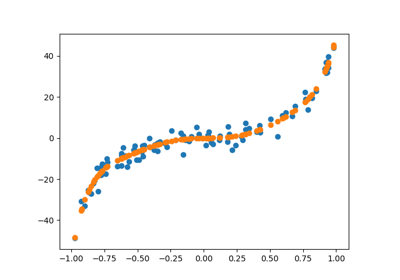
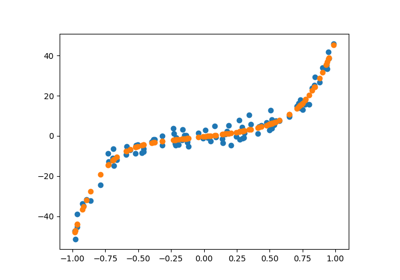
Pushing the docs for revision for branch: master, commit db22fea084fb2cd272b176cc1fdb35c305224d92

diff --git a/_modules/pipegraph/base.html b/_modules/pipegraph/base.html
@@ -873,7 +873,7 @@
 
 
         <span class="k">if</span> <span class="s1">&#39;kwargs&#39;</span> <span class="ow">in</span> <span class="n">variable_list</span><span class="p">:</span>
-            <span class="n">input_data</span> <span class="o">=</span> <span class="p">{</span><span class="n">inner_variable</span><span class="p">:</span> <span class="n">graph_data</span><span class="p">[</span><span class="n">node_and_outer_variable_tuple</span><span class="p">]</span>
+            <span class="n">input_data</span> <span class="o">=</span> <span class="p">{</span><span class="n">inner_variable</span><span class="p">:</span> <span class="n">graph_data</span><span class="o">.</span><span class="n">get</span><span class="p">(</span><span class="n">node_and_outer_variable_tuple</span><span class="p">,</span> <span class="kc">None</span><span class="p">)</span>
                           <span class="k">for</span> <span class="n">inner_variable</span><span class="p">,</span> <span class="n">node_and_outer_variable_tuple</span> <span class="ow">in</span> <span class="n">connection_tuples</span><span class="o">.</span><span class="n">items</span><span class="p">()}</span>
         <span class="k">else</span><span class="p">:</span>
             <span class="n">input_data</span> <span class="o">=</span> <span class="p">{</span><span class="n">inner_variable</span><span class="p">:</span> <span class="n">graph_data</span><span class="p">[</span><span class="n">node_and_outer_variable_tuple</span><span class="p">]</span>
@@ -904,8 +904,8 @@
             <span class="k">else</span><span class="p">:</span>
                 <span class="n">connection_tuples</span><span class="o">.</span><span class="n">update</span><span class="p">({</span><span class="n">key</span><span class="p">:</span> <span class="p">(</span><span class="s1">&#39;_External&#39;</span><span class="p">,</span> <span class="n">value</span><span class="p">)})</span>
 
-        <span class="k">if</span> <span class="n">variable_list</span> <span class="o">==</span> <span class="p">[</span><span class="s1">&#39;kwargs&#39;</span><span class="p">]:</span>
-            <span class="n">input_data</span> <span class="o">=</span> <span class="p">{</span><span class="n">inner_variable</span><span class="p">:</span> <span class="n">graph_data</span><span class="p">[</span><span class="n">node_and_outer_variable_tuple</span><span class="p">]</span>
+        <span class="k">if</span> <span class="s1">&#39;kwargs&#39;</span> <span class="ow">in</span> <span class="n">variable_list</span><span class="p">:</span>
+            <span class="n">input_data</span> <span class="o">=</span> <span class="p">{</span><span class="n">inner_variable</span><span class="p">:</span> <span class="n">graph_data</span><span class="o">.</span><span class="n">get</span><span class="p">(</span><span class="n">node_and_outer_variable_tuple</span><span class="p">,</span> <span class="kc">None</span><span class="p">)</span>
                           <span class="k">for</span> <span class="n">inner_variable</span><span class="p">,</span> <span class="n">node_and_outer_variable_tuple</span> <span class="ow">in</span> <span class="n">connection_tuples</span><span class="o">.</span><span class="n">items</span><span class="p">()}</span>
         <span class="k">else</span><span class="p">:</span>
             <span class="n">input_data</span> <span class="o">=</span> <span class="p">{</span><span class="n">inner_variable</span><span class="p">:</span> <span class="n">graph_data</span><span class="p">[</span><span class="n">node_and_outer_variable_tuple</span><span class="p">]</span>

diff --git a/auto_examples/plot_2_example_added_gridsearchcv.html b/auto_examples/plot_2_example_added_gridsearchcv.html
@@ -232,14 +232,14 @@ In this case we just want to explore a few possibilities varying the degree of t
 <img alt="../_images/sphx_glr_plot_2_example_added_gridsearchcv_001.png" class="align-center" src="../_images/sphx_glr_plot_2_example_added_gridsearchcv_001.png" />
 <p class="sphx-glr-script-out">Out:</p>
 <div class="sphx-glr-script-out highlight-default notranslate"><div class="highlight"><pre><span></span><span class="n">Information</span> <span class="n">about</span> <span class="n">the</span> <span class="n">parameters</span> <span class="n">of</span> <span class="n">the</span> <span class="n">best</span> <span class="n">estimator</span><span class="p">:</span>
- <span class="n">degree</span><span class="p">:</span> <span class="mi">7</span>
- <span class="n">coefficients</span><span class="p">:</span> <span class="p">[[</span>     <span class="mf">0.</span>            <span class="mf">615.5390868</span>   <span class="o">-</span><span class="mf">4482.32566147</span>  <span class="mf">18964.63832964</span>
-  <span class="o">-</span><span class="mf">45380.04109489</span>  <span class="mf">60301.44848224</span> <span class="o">-</span><span class="mf">41422.08388529</span>  <span class="mf">11496.64896206</span><span class="p">]]</span>
+ <span class="n">degree</span><span class="p">:</span> <span class="mi">5</span>
+ <span class="n">coefficients</span><span class="p">:</span> <span class="p">[[</span>    <span class="mf">0.</span>           <span class="mf">420.45477632</span> <span class="o">-</span><span class="mf">1599.06374678</span>  <span class="mf">3105.97619132</span>
+  <span class="o">-</span><span class="mf">2998.49478972</span>  <span class="mf">1164.38556535</span><span class="p">]]</span>
 </pre></div>
 </div>
 <p>This example showed how to use <code class="xref py py-class docutils literal notranslate"><span class="pre">GridSearchCV</span></code> with <code class="xref py py-class docutils literal notranslate"><span class="pre">PipeGraphRegressor</span></code> in a simple linear workflow.
 <a class="reference internal" href="plot_3_example_varying_sample_weights.html#example3"><span class="std std-ref">Next example</span></a> provides detail on how to proceed with a non linear case.</p>
-<p><strong>Total running time of the script:</strong> ( 0 minutes  0.342 seconds)</p>
+<p><strong>Total running time of the script:</strong> ( 0 minutes  0.319 seconds)</p>
 <div class="sphx-glr-footer docutils container">
 <div class="sphx-glr-download docutils container">
 <a class="reference download internal" href="../_downloads/plot_2_example_added_gridsearchcv.py" download=""><code class="xref download docutils literal notranslate"><span class="pre">Download</span> <span class="pre">Python</span> <span class="pre">source</span> <span class="pre">code:</span> <span class="pre">plot_2_example_added_gridsearchcv.py</span></code></a></div>

diff --git a/auto_examples/plot_3_example_varying_sample_weights.html b/auto_examples/plot_3_example_varying_sample_weights.html
@@ -262,7 +262,7 @@ Let’s imagine we have a sample_weight vector and different powers of the vecto
 </div>
 <p>This example displayed a non linear workflow successfully implemented by <strong>PipeGraph</strong>, while at the same time showing a way to circumvent current limitations of standard <code class="xref py py-class docutils literal notranslate"><span class="pre">GridSearchCV</span></code>, in particular, the retriction on the number of input parameters.
 <a class="reference internal" href="plot_4_example_combination_of_classifiers.html#example4"><span class="std std-ref">Next examples</span></a> show more elaborated examples in increasing complexity order.</p>
-<p><strong>Total running time of the script:</strong> ( 0 minutes  0.613 seconds)</p>
+<p><strong>Total running time of the script:</strong> ( 0 minutes  0.552 seconds)</p>
 <div class="sphx-glr-footer docutils container">
 <div class="sphx-glr-download docutils container">
 <a class="reference download internal" href="../_downloads/plot_3_example_varying_sample_weights.py" download=""><code class="xref download docutils literal notranslate"><span class="pre">Download</span> <span class="pre">Python</span> <span class="pre">source</span> <span class="pre">code:</span> <span class="pre">plot_3_example_varying_sample_weights.py</span></code></a></div>

diff --git a/auto_examples/plot_1_example_two_nodes_in_linear_sequence.html b/auto_examples/plot_1_example_two_nodes_in_linear_sequence.html
@@ -225,7 +225,7 @@
 </div>
 <img alt="../_images/sphx_glr_plot_1_example_two_nodes_in_linear_sequence_001.png" class="align-center" src="../_images/sphx_glr_plot_1_example_two_nodes_in_linear_sequence_001.png" />
 <p>This example described the basic configuration of a <code class="xref py py-class docutils literal notranslate"><span class="pre">PipeGraphRegressor</span></code>. The <a class="reference internal" href="plot_2_example_added_gridsearchcv.html#example2"><span class="std std-ref">following examples</span></a> show more elaborated cases in order of increasing complexity.</p>
-<p><strong>Total running time of the script:</strong> ( 0 minutes  0.775 seconds)</p>
+<p><strong>Total running time of the script:</strong> ( 0 minutes  0.642 seconds)</p>
 <div class="sphx-glr-footer docutils container">
 <div class="sphx-glr-download docutils container">
 <a class="reference download internal" href="../_downloads/plot_1_example_two_nodes_in_linear_sequence.py" download=""><code class="xref download docutils literal notranslate"><span class="pre">Download</span> <span class="pre">Python</span> <span class="pre">source</span> <span class="pre">code:</span> <span class="pre">plot_1_example_two_nodes_in_linear_sequence.py</span></code></a></div>

diff --git a/auto_examples/plot_4_example_combination_of_classifiers.html b/auto_examples/plot_4_example_combination_of_classifiers.html
@@ -258,7 +258,7 @@ the neural network. The data is firstly transformed by scaling its features.</p>
 <img alt="../_images/sphx_glr_plot_4_example_combination_of_classifiers_001.png" class="align-center" src="../_images/sphx_glr_plot_4_example_combination_of_classifiers_001.png" />
 <p>This example displayed complex data injections that are successfully managed by <strong>PipeGraph</strong>.
 Next example <a class="reference internal" href="plot_5_example_Demultiplexer_Multiplexer.html#example5"><span class="std std-ref">on</span></a>.</p>
-<p><strong>Total running time of the script:</strong> ( 0 minutes  53.153 seconds)</p>
+<p><strong>Total running time of the script:</strong> ( 0 minutes  43.009 seconds)</p>
 <div class="sphx-glr-footer docutils container">
 <div class="sphx-glr-download docutils container">
 <a class="reference download internal" href="../_downloads/plot_4_example_combination_of_classifiers.py" download=""><code class="xref download docutils literal notranslate"><span class="pre">Download</span> <span class="pre">Python</span> <span class="pre">source</span> <span class="pre">code:</span> <span class="pre">plot_4_example_combination_of_classifiers.py</span></code></a></div>

diff --git a/auto_examples/plot_5_example_Demultiplexer_Multiplexer.html b/auto_examples/plot_5_example_Demultiplexer_Multiplexer.html
@@ -252,7 +252,7 @@ describing the connections to PipeGraph constructor</p>
 </pre></div>
 </div>
 <img alt="../_images/sphx_glr_plot_5_example_Demultiplexer_Multiplexer_001.png" class="align-center" src="../_images/sphx_glr_plot_5_example_Demultiplexer_Multiplexer_001.png" />
-<p><strong>Total running time of the script:</strong> ( 0 minutes  0.127 seconds)</p>
+<p><strong>Total running time of the script:</strong> ( 0 minutes  0.112 seconds)</p>
 <div class="sphx-glr-footer docutils container">
 <div class="sphx-glr-download docutils container">
 <a class="reference download internal" href="../_downloads/plot_5_example_Demultiplexer_Multiplexer.py" download=""><code class="xref download docutils literal notranslate"><span class="pre">Download</span> <span class="pre">Python</span> <span class="pre">source</span> <span class="pre">code:</span> <span class="pre">plot_5_example_Demultiplexer_Multiplexer.py</span></code></a></div>
